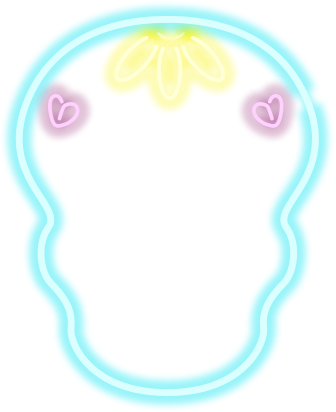
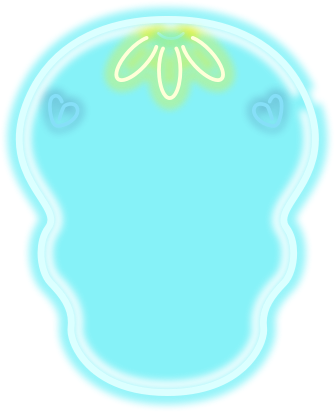
Update some masks Debug for the #mobile team to provide help

diff --git a/tribelivesdk/src/main/java/com/tribe/tribelivesdk/view/opengl/renderer/PreviewRenderer.java b/tribelivesdk/src/main/java/com/tribe/tribelivesdk/view/opengl/renderer/PreviewRenderer.java
@@ -20,6 +20,7 @@ import com.tribe.tribelivesdk.view.opengl.filter.ImageFilter;
 import com.tribe.tribelivesdk.view.opengl.gles.GlSurfaceTexture;
 import com.tribe.tribelivesdk.view.opengl.gles.PreviewTextureInterface;
 import com.tribe.tribelivesdk.webrtc.Frame;
+import com.tribe.tribelivesdk.webrtc.RendererCommon;
 import com.uls.renderer.GLRenderMask;
 import java.io.BufferedOutputStream;
 import java.io.File;
@@ -28,7 +29,6 @@ import java.io.OutputStream;
 import java.nio.ByteBuffer;
 import java.nio.ByteOrder;
 import javax.microedition.khronos.egl.EGLConfig;
-import org.webrtc.RendererCommon;
 import rx.Observable;
 import rx.subjects.PublishSubject;
 import rx.subscriptions.CompositeSubscription;
@@ -217,22 +217,16 @@ public class PreviewRenderer extends GlFrameBufferObjectRenderer
     glClear(GLES20.GL_COLOR_BUFFER_BIT | GLES20.GL_DEPTH_BUFFER_BIT);
 
     if (previewTexture != null && byteBuffer != null) {
-      float[] texMatrix = com.tribe.tribelivesdk.webrtc.RendererCommon.rotateTextureMatrix(stMatrix,
-          cameraInfo.getFrameOrientation());
+      // TODO TASK_FORCE
+      // The part of the code that constructs the openGL matrix that
+      // will be used to display the camera preview
+      float[] texMatrix =
+          RendererCommon.rotateTextureMatrix(stMatrix, cameraInfo.getFrameOrientation());
       float[] drawMatrix;
       synchronized (this.layoutLock) {
         float[] layoutMatrix;
-        if (this.layoutAspectRatio > 0.0F) {
-          float videoAspectRatio =
-              (float) cameraInfo.rotatedWidth() / (float) cameraInfo.rotatedHeight();
-          layoutMatrix =
-              RendererCommon.getLayoutMatrix(cameraInfo.isFrontFacing(), videoAspectRatio,
-                  this.layoutAspectRatio);
-        } else {
-          layoutMatrix = cameraInfo.isFrontFacing() ? RendererCommon.horizontalFlipMatrix()
-              : RendererCommon.identityMatrix();
-        }
-
+        layoutMatrix = cameraInfo.isFrontFacing() ? RendererCommon.horizontalFlipMatrix()
+            : RendererCommon.identityMatrix();
         drawMatrix = RendererCommon.multiplyMatrices(texMatrix, layoutMatrix);
       }
 
@@ -277,34 +271,15 @@ public class PreviewRenderer extends GlFrameBufferObjectRenderer
           if (widthOut * heightOut * 4 != byteBuffer.capacity()) return;
 
           filter.getFbo().bind();
-          //long timeStart = System.nanoTime();
           byteBuffer.rewind();
           libYuvConverter.readFromPBO(byteBuffer, widthOut, heightOut);
           byteBuffer.flip();
           GLES20.glBindFramebuffer(GLES20.GL_FRAMEBUFFER, 0);
-          //glClear(GL_COLOR_BUFFER_BIT | GL_DEPTH_BUFFER_BIT);
 
-          //long timeEndReadPBO = System.nanoTime();
-          //Timber.d("Total time of read PBO frame "
-          //    + " / "
-          //    + (timeEndReadPBO - timeStart) / 1000000.0f
-          //    + " ms");
-          //Timber.d("WidthOut : " + widthOut + " / height out : " + heightOut);
           frame =
               new Frame(byteBuffer.array(), widthOut, heightOut, 0, previewTexture.getTimestamp(),
                   cameraInfo.isFrontFacing());
           onFrameAvailable.onNext(frame);
-
-          //ByteBuffer byteBufferBitmap = ByteBuffer.wrap(byteBuffer.array());
-          //Bitmap bitmap = Bitmap.createBitmap(widthOut, heightOut, Bitmap.Config.ARGB_8888);
-          //bitmap.copyPixelsFromBuffer(byteBufferBitmap);
-          //savePNGImageToGallery(bitmap, context, "tribe_test.jpg");
-
-          //long timeEndFrame = System.nanoTime();
-          //Timber.d("Total time of end frame "
-          //    + " / "
-          //    + (timeEndFrame - timeEndReadPBO) / 1000000.0f
-          //    + " ms");
         }
       }
     }
@@ -331,9 +306,14 @@ public class PreviewRenderer extends GlFrameBufferObjectRenderer
   }
 
   private void draw(int index, int rotation, float widthOut, float heightOut) {
-    float ratioH = widthOut < heightOut ? (widthOut / heightOut) : (heightOut / widthOut);
+    // TODO TASK_FORCE
+    // The ratioH determines how the mask will expand vertically,
+    // there might be something to change here too
+    float ratioH =
+        (float) cameraInfo.getCaptureFormat().height / (float) cameraInfo.getCaptureFormat().width;
     int width = cameraInfo.getCaptureFormat().width, height = cameraInfo.getCaptureFormat().height;
     float[][] shape = ulseeManager.getShape();
+    float[][] shapeAdapted = new float[shape.length][];
     float[][] pose = ulseeManager.getPose();
     float[][] confidence = ulseeManager.getConfidence();
     float[] poseQuality = ulseeManager.getPoseQuality();
@@ -346,15 +326,44 @@ public class PreviewRenderer extends GlFrameBufferObjectRenderer
       ulsRenderer.setTrackParamNoFace(isFrontFacing);
       ulsRenderer.ulsDrawFrame(null, index, ratioH, false);
     } else {
+      float[][] shapeFinal = shape;
+      // TODO TASK_FORCE
+      // Trying here to change the coordinates based on a ratio that was determined earlier
+      // by the drawMatrix (I put 0.83f because it is the one given for New Call on my Nexus 6P)
+      // Results not concluent so far
+
+      //finalArray = shapeAdapted;
+      //for (int k = 0; k < UlseeManager.MAX_TRACKER; k++) {
+      //  if (shape[k] != null) {
+      //    shapeAdapted[k] = new float[shape[k].length];
+      //    for (int i = 0; i < (shape[k].length / 2); i++) {
+      //      if (shape[k][i * 2] != 0 || shape[k][i * 2 + 1] != 0) {
+      //        android.graphics.Matrix matrix = new android.graphics.Matrix();
+      //        matrix.setScale(0.83f, 1f, 0f, 0f);
+      //        float[] oldPoints = new float[] { shape[k][i * 2], shape[k][i * 2 + 1] };
+      //        float[] newPoints = new float[2];
+      //        matrix.mapPoints(newPoints, oldPoints);
+      //        shapeAdapted[k][i * 2] = newPoints[0];
+      //        shapeAdapted[k][i * 2 + 1] = newPoints[1];
+      //        Timber.d("Old Points : " +
+      //            Arrays.toString(oldPoints) +
+      //            " / new points : " +
+      //            Arrays.toString(newPoints));
+      //      }
+      //    }
+      //  }
+      //}
+
       if (pose != null && poseQuality[index] > 0.0f) {
-        maskRender.drawMask(shape[index], confidence[index], 5.0f, rotation, width, height,
+        maskRender.drawMask(shapeFinal[index], confidence[index], 5.0f, rotation, width, height,
             ulsRenderer.getMaskFile(), isFrontFacing);
         if (isFrontFacing) {
-          ulsRenderer.setTrackParam(width, height, shape[index], confidence[index], pupils[index],
-              gaze[index], pose[index], poseQuality[index], isFrontFacing, cameraRotation, ratioH);
+          ulsRenderer.setTrackParam(width, height, shapeFinal[index], confidence[index],
+              pupils[index], gaze[index], pose[index], poseQuality[index], isFrontFacing,
+              cameraRotation, ratioH);
         } else {
           float[] flippedFaceShape = new float[99 * 2];
-          flipFaceShape(flippedFaceShape, shape[index]);
+          flipFaceShape(flippedFaceShape, shapeFinal[index]);
 
           ulsRenderer.setTrackParam(width, height, flippedFaceShape, confidence[index],
               pupils[index], gaze[index], pose[index], poseQuality[index], isFrontFacing,
@@ -365,11 +374,12 @@ public class PreviewRenderer extends GlFrameBufferObjectRenderer
       }
 
       if (isFrontFacing) {
-        ulsRenderer.setTrackParam(width, height, shape[index], confidence[index], pupils[index],
-            gaze[index], pose[index], poseQuality[index], isFrontFacing, cameraRotation, ratioH);
+        ulsRenderer.setTrackParam(width, height, shapeFinal[index], confidence[index],
+            pupils[index], gaze[index], pose[index], poseQuality[index], isFrontFacing,
+            cameraRotation, ratioH);
       } else {
         float[] flippedFaceShape = new float[99 * 2];
-        flipFaceShape(flippedFaceShape, shape[index]);
+        flipFaceShape(flippedFaceShape, shapeFinal[index]);
 
         ulsRenderer.setTrackParam(width, height, flippedFaceShape, confidence[index], pupils[index],
             gaze[index], pose[index], poseQuality[index], isFrontFacing, cameraRotation, ratioH);

diff --git a/tribelivesdk/src/main/java/com/tribe/tribelivesdk/view/opengl/filter/mask/NeonSkullFaceMaskFilter.java b/tribelivesdk/src/main/java/com/tribe/tribelivesdk/view/opengl/filter/mask/NeonSkullFaceMaskFilter.java
@@ -19,13 +19,13 @@ public class NeonSkullFaceMaskFilter extends FaceMaskFilter {
   public void computeMask(String path, boolean isFrontFacing) {
     new Thread(() -> {
       String neonSkullContour = path + "neon_skull_contour.png";
-      UlsFaceAR.insertAnimationObjectAtIndex(0, neonSkullContour, 30, true, 1.75f, isFrontFacing);
+      UlsFaceAR.insertAnimationObjectAtIndex(0, neonSkullContour, 30, true, 1.2f, isFrontFacing);
 
       String neonSkullEyes = path + "neon_skull_eyes.png";
-      UlsFaceAR.insertAnimationObjectAtIndex(1, neonSkullEyes, 27, true, 0.75f, isFrontFacing);
+      UlsFaceAR.insertAnimationObjectAtIndex(1, neonSkullEyes, 27, true, 1.2f, isFrontFacing);
 
       String neonSkullNose = path + "neon_skull_nose.png";
-      UlsFaceAR.insertAnimationObjectAtIndex(2, neonSkullNose, 30, true, 0.75f, isFrontFacing);
+      UlsFaceAR.insertAnimationObjectAtIndex(2, neonSkullNose, 30, true, 1.2f, isFrontFacing);
 
       UlsFaceAR.cleanAnimationObjectAtIndex(3);
     }).start();

diff --git a/tribelivesdk/src/main/java/com/tribe/tribelivesdk/view/opengl/filter/mask/UnicornFaceMaskFilter.java b/tribelivesdk/src/main/java/com/tribe/tribelivesdk/view/opengl/filter/mask/UnicornFaceMaskFilter.java
@@ -19,13 +19,13 @@ public class UnicornFaceMaskFilter extends FaceMaskFilter {
   public void computeMask(String path, boolean isFrontFacing) {
     new Thread(() -> {
       String unicornHorn = path + "unicorn_horn.png";
-      UlsFaceAR.insertAnimationObjectAtIndex(0, unicornHorn, 91, true, 0.75f, isFrontFacing);
+      UlsFaceAR.insertAnimationObjectAtIndex(0, unicornHorn, 91, true, 1.2f, isFrontFacing);
 
       String cosmetics = path + "unicorn_cosmetics.png";
-      UlsFaceAR.insertAnimationObjectAtIndex(1, cosmetics, 29, true, 0.75f, isFrontFacing);
+      UlsFaceAR.insertAnimationObjectAtIndex(1, cosmetics, 29, true, 1.2f, isFrontFacing);
 
       String nose = path + "unicorn_nose.png";
-      UlsFaceAR.insertAnimationObjectAtIndex(2, nose, 30, true, 0.75f, isFrontFacing);
+      UlsFaceAR.insertAnimationObjectAtIndex(2, nose, 30, true, 1.2f, isFrontFacing);
 
       UlsFaceAR.cleanAnimationObjectAtIndex(3);
     }).start();

diff --git a/tribelivesdk/src/main/java/com/tribe/tribelivesdk/view/opengl/filter/mask/CatFaceMaskFilter.java b/tribelivesdk/src/main/java/com/tribe/tribelivesdk/view/opengl/filter/mask/CatFaceMaskFilter.java
@@ -19,13 +19,13 @@ public class CatFaceMaskFilter extends FaceMaskFilter {
   public void computeMask(String path, boolean isFrontFacing) {
     new Thread(() -> {
       String unicornHorn = path + "cat_ears.png";
-      UlsFaceAR.insertAnimationObjectAtIndex(0, unicornHorn, 91, true, 0.75f, isFrontFacing);
+      UlsFaceAR.insertAnimationObjectAtIndex(0, unicornHorn, 91, true, 1.2f, isFrontFacing);
 
       String cosmetics = path + "cat_cosmetics.png";
-      UlsFaceAR.insertAnimationObjectAtIndex(1, cosmetics, 29, true, 0.75f, isFrontFacing);
+      UlsFaceAR.insertAnimationObjectAtIndex(1, cosmetics, 29, true, 1.2f, isFrontFacing);
 
       String nose = path + "cat_nose.png";
-      UlsFaceAR.insertAnimationObjectAtIndex(2, nose, 30, true, 0.75f, isFrontFacing);
+      UlsFaceAR.insertAnimationObjectAtIndex(2, nose, 30, true, 1.2f, isFrontFacing);
 
       UlsFaceAR.cleanAnimationObjectAtIndex(3);
     }).start();

diff --git a/tribelivesdk/src/main/java/com/tribe/tribelivesdk/view/opengl/filter/mask/BearFaceMaskFilter.java b/tribelivesdk/src/main/java/com/tribe/tribelivesdk/view/opengl/filter/mask/BearFaceMaskFilter.java
@@ -19,13 +19,13 @@ public class BearFaceMaskFilter extends FaceMaskFilter {
   public void computeMask(String path, boolean isFrontFacing) {
     new Thread(() -> {
       String bearEars = path + "bear_ears.png";
-      UlsFaceAR.insertAnimationObjectAtIndex(0, bearEars, 91, true, 0.75f, isFrontFacing);
+      UlsFaceAR.insertAnimationObjectAtIndex(0, bearEars, 91, true, 1.2f, isFrontFacing);
 
       String glasses = path + "bear_glasses.png";
-      UlsFaceAR.insertAnimationObjectAtIndex(1, glasses, 27, true, 0.75f, isFrontFacing);
+      UlsFaceAR.insertAnimationObjectAtIndex(1, glasses, 27, true, 1.2f, isFrontFacing);
 
       String nose = path + "bear_nose.png";
-      UlsFaceAR.insertAnimationObjectAtIndex(2, nose, 30, true, 0.75f, isFrontFacing);
+      UlsFaceAR.insertAnimationObjectAtIndex(2, nose, 30, true, 1.2f, isFrontFacing);
 
       UlsFaceAR.cleanAnimationObjectAtIndex(3);
     }).start();

diff --git a/tribelivesdk/src/main/java/com/tribe/tribelivesdk/util/FileUtils.java b/tribelivesdk/src/main/java/com/tribe/tribelivesdk/util/FileUtils.java
@@ -30,14 +30,14 @@ public class FileUtils {
         OutputStream out;
         try {
           File targetFile = new File(toPath + file);
-          if (!targetFile.exists()) {
-            in = assetManager.open(fromPath + "/" + file);
-            out = new FileOutputStream(toPath + file);
-            copyFile(in, out);
-            in.close();
-            out.flush();
-            out.close();
-          }
+          if (targetFile.exists()) targetFile.delete();
+
+          in = assetManager.open(fromPath + "/" + file);
+          out = new FileOutputStream(toPath + file);
+          copyFile(in, out);
+          in.close();
+          out.flush();
+          out.close();
         } catch (Exception e) {
           Log.e("copy ulsdata ERROR", e.toString());
           e.printStackTrace();

diff --git a/tribelivesdk/src/main/java/com/tribe/tribelivesdk/view/opengl/filter/mask/FlowerCrownFaceMaskFilter.java b/tribelivesdk/src/main/java/com/tribe/tribelivesdk/view/opengl/filter/mask/FlowerCrownFaceMaskFilter.java
@@ -19,10 +19,10 @@ public class FlowerCrownFaceMaskFilter extends FaceMaskFilter {
   public void computeMask(String path, boolean isFrontFacing) {
     new Thread(() -> {
       String flowerCrown = path + "flower_crown_crown.png";
-      UlsFaceAR.insertAnimationObjectAtIndex(0, flowerCrown, 91, true, 0.75f, isFrontFacing);
+      UlsFaceAR.insertAnimationObjectAtIndex(0, flowerCrown, 91, true, 1.2f, isFrontFacing);
 
       String flowerCrownCosmetics = path + "flower_crown_cosmetics.png";
-      UlsFaceAR.insertAnimationObjectAtIndex(1, flowerCrownCosmetics, 29, true, 0.75f,
+      UlsFaceAR.insertAnimationObjectAtIndex(1, flowerCrownCosmetics, 29, true, 1.2f,
           isFrontFacing);
 
       UlsFaceAR.cleanAnimationObjectAtIndex(2);

diff --git a/tribelivesdk/src/main/java/com/tribe/tribelivesdk/view/opengl/filter/mask/RabbitFaceMaskFilter.java b/tribelivesdk/src/main/java/com/tribe/tribelivesdk/view/opengl/filter/mask/RabbitFaceMaskFilter.java
@@ -19,10 +19,10 @@ public class RabbitFaceMaskFilter extends FaceMaskFilter {
   public void computeMask(String path, boolean isFrontFacing) {
     new Thread(() -> {
       String rabbitEars = path + "rabbit_ears.png";
-      UlsFaceAR.insertAnimationObjectAtIndex(0, rabbitEars, 91, true, 1f, isFrontFacing);
+      UlsFaceAR.insertAnimationObjectAtIndex(0, rabbitEars, 91, true, 1.2f, isFrontFacing);
 
       String rabbitCosmetics = path + "rabbit_cosmetics.png";
-      UlsFaceAR.insertAnimationObjectAtIndex(1, rabbitCosmetics, 29, true, 1f, isFrontFacing);
+      UlsFaceAR.insertAnimationObjectAtIndex(1, rabbitCosmetics, 29, true, 1.2f, isFrontFacing);
 
       UlsFaceAR.cleanAnimationObjectAtIndex(2);
     }).start();

diff --git a/tribelivesdk/src/main/java/com/tribe/tribelivesdk/view/opengl/filter/mask/RoundSunglassesFaceMaskFilter.java b/tribelivesdk/src/main/java/com/tribe/tribelivesdk/view/opengl/filter/mask/RoundSunglassesFaceMaskFilter.java
@@ -19,7 +19,7 @@ public class RoundSunglassesFaceMaskFilter extends FaceMaskFilter {
   public void computeMask(String path, boolean isFrontFacing) {
     new Thread(() -> {
       String glasses = path + "round_sunglasses_sunglasses.png";
-      UlsFaceAR.insertAnimationObjectAtIndex(0, glasses, 27, true, 0.7f, isFrontFacing);
+      UlsFaceAR.insertAnimationObjectAtIndex(0, glasses, 27, true, 0.6f, isFrontFacing);
 
       UlsFaceAR.cleanAnimationObjectAtIndex(1);
     }).start();

diff --git a/tribelivesdk/src/main/java/com/tribe/tribelivesdk/view/opengl/filter/mask/HeadsUpMaskFilter.java b/tribelivesdk/src/main/java/com/tribe/tribelivesdk/view/opengl/filter/mask/HeadsUpMaskFilter.java
@@ -21,7 +21,7 @@ public class HeadsUpMaskFilter extends FaceMaskFilter {
   public void computeMask(String path, boolean isFrontFacing) {
     new Thread(() -> {
       String headsUp = path + HEADS_UP_FILE;
-      UlsFaceAR.insertAnimationObjectAtIndex(0, headsUp, 91, true, 1f, isFrontFacing);
+      UlsFaceAR.insertAnimationObjectAtIndex(0, headsUp, 91, true, 1.2f, isFrontFacing);
       UlsFaceAR.cleanAnimationObjectAtIndex(1);
     }).start();
   }

diff --git a/tribelivesdk/src/main/java/com/tribe/tribelivesdk/view/opengl/renderer/UlsRenderer.java b/tribelivesdk/src/main/java/com/tribe/tribelivesdk/view/opengl/renderer/UlsRenderer.java
@@ -242,6 +242,8 @@ public class UlsRenderer {
                 float realX;
                 float realY;
 
+                // TODO TASK_FORCE
+                // Same as the ratioH in PreviewRenderer
                 float ratioCameraReal = (float) cameraInfo.getCaptureFormat().width /
                     (float) cameraInfo.getCaptureFormat().height;
 

diff --git a/tribelivesdk/src/main/java/com/tribe/tribelivesdk/facetracking/UlseeManager.java b/tribelivesdk/src/main/java/com/tribe/tribelivesdk/facetracking/UlseeManager.java
@@ -147,7 +147,7 @@ public class UlseeManager {
 
               //if (shape[k] != null) {
               //  for (int i = 0; i < shape[k].length; i++) {
-              //    shape[k][i] = shape[k][i] + 100;
+              //    shape[k][i] = shape[k][i] * 1.15f;
               //  }
               //}
 
